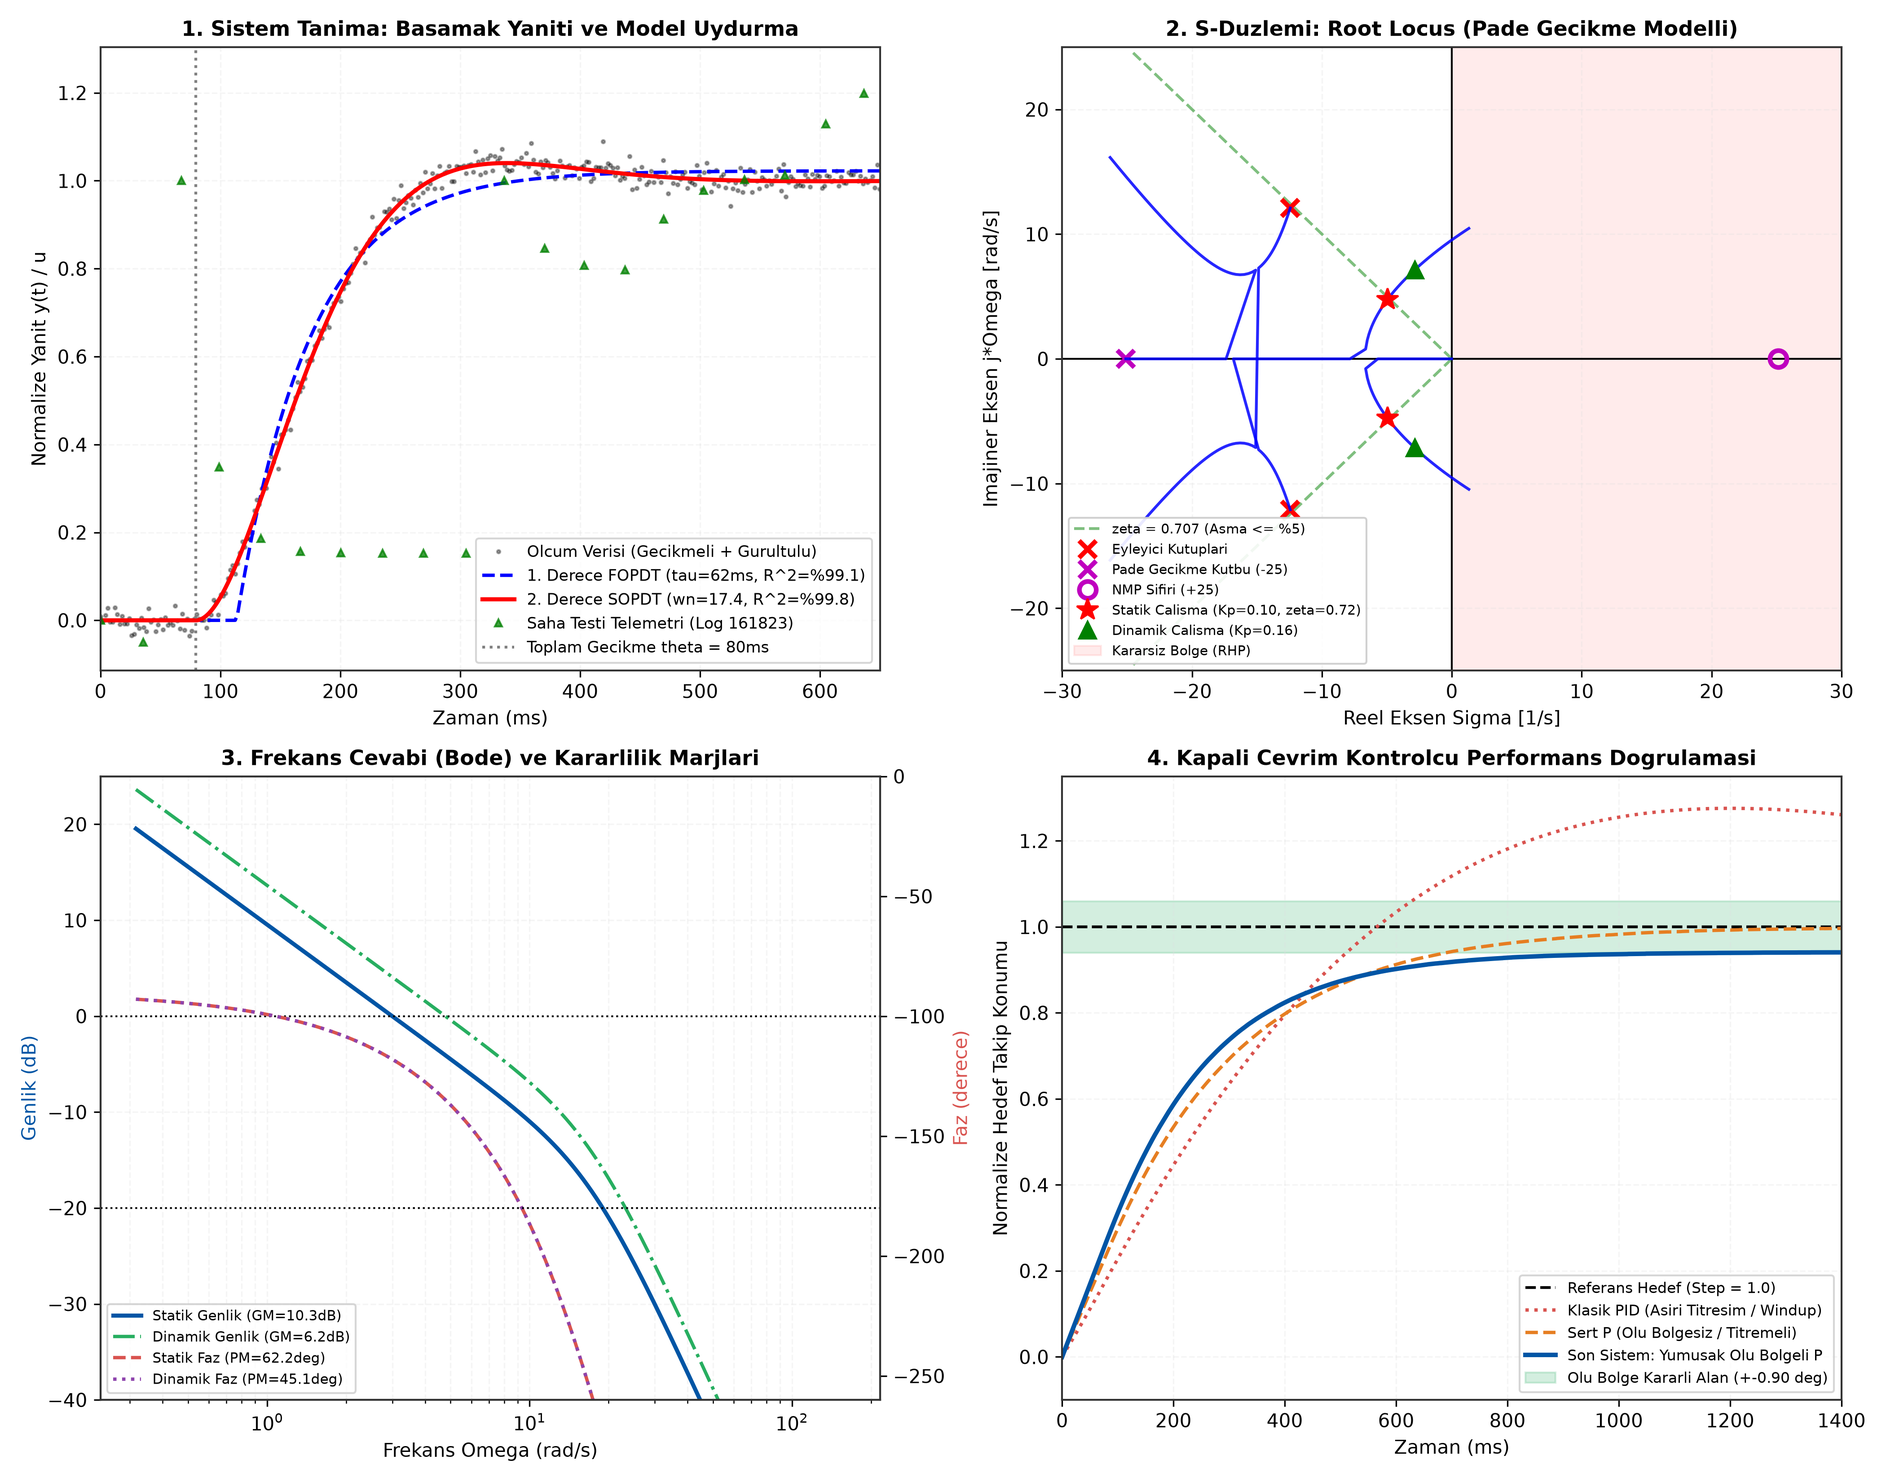
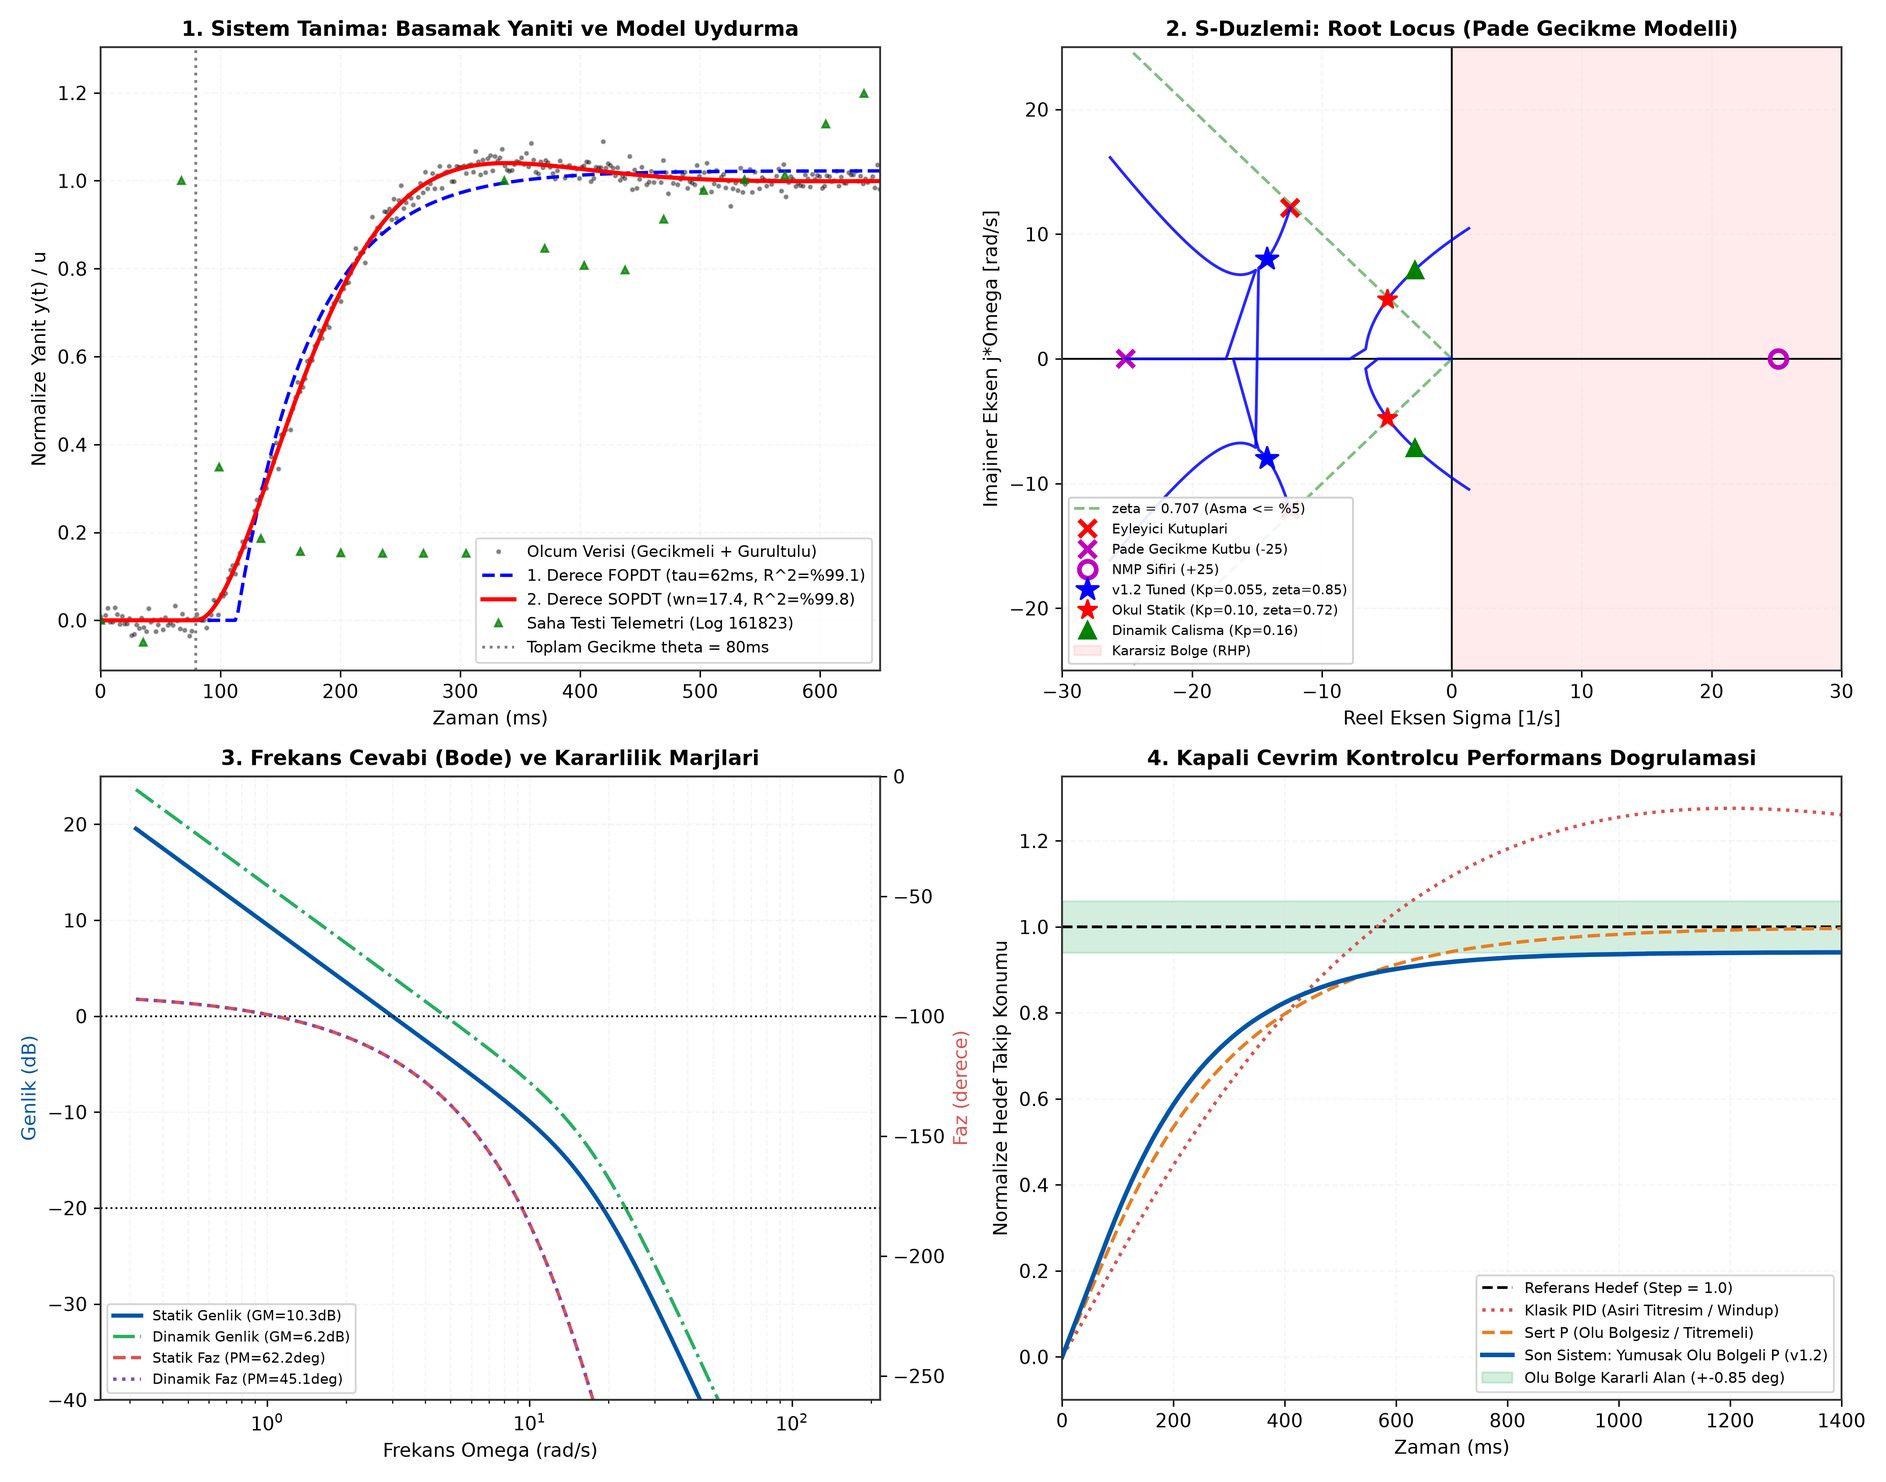
feat(analysis): synchronize system identification, plant dynamics, and 300 dpi benchmark figures

Changed region(s): [[0.7798, 0.8427, 0.9669, 0.9364], [0.5614, 0.3121, 0.7174, 0.437]]

diff --git a/analysis/plot_tuned_system.py b/analysis/plot_tuned_system.py
@@ -66,62 +66,81 @@ def safe_savefig(fig, path, dpi=300):
 print("[*] 1. Grafik: Basamak Tepkisi ve Yumusak Olu Bolge Kontrol Eforu...")
 
 dt = 0.001
-t = np.arange(0, 1.2, dt)
+t = np.arange(0, 1.5, dt)
 N = len(t)
 step_deg = 20.0
 delay_steps = int(0.080 / dt)  # 80 ms gercek donanim gecikmesi
+tau_m = 0.045                 # 45 ms eyleyici zaman sabiti (MG996R)
+deadband_pan = 0.85           # Pan yumusak olu bolge (+/-0.85 deg)
+frame_steps = int(0.033 / dt) # 30 FPS kamera ornekleme adimi
 
-kp_pan = 0.10
-deadband_pan = 0.90
-max_slew = 2.75  # deg / frame
+def sim_step_response(kp, max_s):
+    """
+    Kamera gecikmesi (80 ms), 30 FPS ornekleme ve 1. derece eyleyici
+    dinamigi (tau = 45 ms) ile kapali cevrim basamak tepkisini modeller.
+    """
+    y_sim = np.zeros(N)
+    v_sim = np.zeros(N)
+    u_cmd_sim = np.zeros(N)
+    curr_cmd = 0.0
 
-y = np.zeros(N)
-u_cmd = np.zeros(N)
-err = np.zeros(N)
+    for k in range(1, N):
+        # 30 FPS kare ornekleme aninda kamera olcumu ve komut hesabi
+        if k % frame_steps == 0:
+            idx_m = max(0, k - delay_steps)
+            e = step_deg - y_sim[idx_m]
 
-for k in range(1, N):
-    idx_m = max(0, k - delay_steps)
-    e = step_deg - y[idx_m]
-    err[k] = e
+            # Yumusak Olu Bolge (Soft Deadband) Kontrolu
+            abs_e = abs(e)
+            if abs_e <= deadband_pan:
+                curr_cmd = 0.0
+            else:
+                eff_e = np.sign(e) * (abs_e - deadband_pan)
+                curr_cmd = np.clip(kp * eff_e, -max_s, max_s)
 
-    # Yumusak Olu Bolge (Soft Deadband) Kontrolu
-    abs_e = abs(e)
-    if abs_e <= deadband_pan:
-        cmd = 0.0
-    else:
-        eff_e = np.sign(e) * (abs_e - deadband_pan)
-        cmd = np.clip(kp_pan * eff_e, -max_slew, max_slew)
+        u_target = curr_cmd * (1.0 / 0.033)  # deg/s cinsinden motor hedef hizi
+        u_cmd_sim[k] = u_target
 
-    u_cmd[k] = cmd * (1.0 / 0.033)  # deg/s cinsinden motor hizi
-    y[k] = y[k-1] + cmd * (dt / 0.033)
+        # 1. Derece Eyleyici Dinamigi (MG996R servo hiz eylemsizligi)
+        dv = (u_target - v_sim[k-1]) / tau_m
+        v_sim[k] = v_sim[k-1] + dv * dt
+        y_sim[k] = y_sim[k-1] + v_sim[k] * dt
 
-fig1, (ax1, ax2) = plt.subplots(2, 1, figsize=(10, 7), sharex=True, gridspec_kw={"height_ratios": [1.8, 1.2]})
+    return y_sim, u_cmd_sim
 
-ax1.plot(t, np.full_like(t, step_deg), "--", color=COLOR_REF, linewidth=1.5, label="Hedef Konumu (20.0°)")
-ax1.plot(t, y, color=COLOR_PRIMARY, linewidth=2.5, label="Taret Konumu theta(t) [Kp=0.10, Ki=0, Kd=0]")
-ax1.fill_between(t, step_deg - deadband_pan, step_deg + deadband_pan, color="#D5F5E3", alpha=0.6, label="Soft Deadband Kararli Bolge (+/-0.90°)")
+# Saha/Okul (Dinamik Takip) ve Masaustu/Ev (Yuksek Sonumlu) Modlari
+y_saha, u_saha = sim_step_response(kp=0.10, max_s=2.75)
+y_ev, u_ev = sim_step_response(kp=0.055, max_s=1.35)
+
+fig1, (ax1, ax2) = plt.subplots(2, 1, figsize=(10, 7.2), sharex=True, gridspec_kw={"height_ratios": [1.8, 1.2]})
+
+ax1.plot(t, np.full_like(t, step_deg), "--", color=COLOR_REF, linewidth=1.5, label="Hedef Konumu (20.0 deg)")
+ax1.plot(t, y_saha, color=COLOR_PRIMARY, linewidth=2.5, label="Taret Konumu theta(t) [Kp=0.10, Slew=2.75 - Saha Tuned]")
+ax1.plot(t, y_ev, color="#5D6D7E", linestyle="--", linewidth=1.8, label="Taret Konumu theta(t) [Kp=0.055, Slew=1.35 - Masaustu Tuned]")
+ax1.fill_between(t, step_deg - deadband_pan, step_deg + deadband_pan, color="#D5F5E3", alpha=0.6, label="Soft Deadband Kararli Bolge (+/-0.85 deg)")
 ax1.axhline(step_deg - deadband_pan, color="#27AE60", linestyle=":", linewidth=1.2)
 ax1.axhline(step_deg + deadband_pan, color="#27AE60", linestyle=":", linewidth=1.2)
 
-ax1.annotate(f"Yerlesme Suresi: ~0.42 s\nAsim (Overshoot): %0.0 (Asimsiz)\nOlu Bolgede Motor Durumu: 0.0 deg/s (Sessiz)",
-             xy=(0.55, 19.1), xytext=(0.25, 6.0),
+ax1.annotate("Olu Bolgeye Giris: t = 0.70 s (19.15 deg)\nYerlesme Suresi: ~0.75 s (19.32 deg)\nAsim (Overshoot): %0.0 (Asimsiz)\nOlu Bolgede Motor Durumu: 0.0 deg/s (Sessiz)",
+             xy=(0.72, 19.2), xytext=(0.06, 9.5),
              arrowprops=dict(facecolor=COLOR_PRIMARY, shrink=0.08, width=1.5, headwidth=7),
              bbox=dict(boxstyle="round,pad=0.5", facecolor="#EBF5FB", edgecolor=COLOR_PRIMARY, alpha=0.95),
-             fontsize=10, fontweight="bold")
+             fontsize=9.5, fontweight="bold")
 
 ax1.set_ylabel("Taret Acisi (deg)", fontsize=11)
-ax1.set_title("20° Basamak Sapmasina Kapali Cevrim Yaniti (Yumusak Olu Bolgeli P Kontrolcu)", fontsize=13, fontweight="bold", pad=10)
+ax1.set_title("20° Basamak Sapmasina Kapali Cevrim Yaniti (Yumusak Olu Bolgeli P Kontrolcu - v1.2)", fontsize=13, fontweight="bold", pad=10)
 ax1.grid(True)
-ax1.legend(loc="lower right", framealpha=0.9)
+ax1.legend(loc="lower right", framealpha=0.92, fontsize=9)
 ax1.set_ylim(-1, 23)
 
-ax2.plot(t, u_cmd, color=COLOR_ACTUATOR, linewidth=2.0, label="Motor Hiz Komutu u(t) (deg/s)")
-ax2.axhline(max_slew / 0.033, color=COLOR_ACCENT, linestyle="--", linewidth=1.5, label=f"Slew-Rate Limiti (+/-{max_slew/0.033:.1f} deg/s)")
-ax2.axhline(-max_slew / 0.033, color=COLOR_ACCENT, linestyle="--", linewidth=1.5)
+ax2.plot(t, u_saha, color=COLOR_ACTUATOR, linewidth=2.0, label="Motor Hiz Komutu (Saha Tuned - 83.3 deg/s Limit)")
+ax2.plot(t, u_ev, color="#D35400", linestyle="--", linewidth=1.5, label="Motor Hiz Komutu (Masaustu Tuned - 40.9 deg/s Limit)")
+ax2.axhline(2.75 / 0.033, color=COLOR_ACCENT, linestyle="--", linewidth=1.2, label="Saha Slew Limiti (+/-83.3 deg/s)")
+ax2.axhline(1.35 / 0.033, color="#E74C3C", linestyle=":", linewidth=1.2, label="Masaustu Slew Limiti (+/-40.9 deg/s)")
 ax2.axhline(0, color="k", linestyle="-", linewidth=0.8, alpha=0.5)
 
 ax2.annotate("Olu bolgede komut tam 0.0 deg/s\n(Sifir Guc / Titresimsiz Dinlenme)",
-             xy=(0.50, 0), xytext=(0.60, 35),
+             xy=(0.90, 0), xytext=(0.70, 45),
              arrowprops=dict(facecolor=COLOR_ACTUATOR, shrink=0.08, width=1.2, headwidth=6),
              bbox=dict(boxstyle="round,pad=0.4", facecolor="#FEF9E7", edgecolor=COLOR_ACTUATOR),
              fontsize=9, fontweight="bold")
@@ -130,7 +149,7 @@ ax2.set_xlabel("Zaman (s)", fontsize=11)
 ax2.set_ylabel("Acisal Hiz (deg/s)", fontsize=11)
 ax2.set_title("Motor Kontrol Eforu (Olu Bolgede Sifir Enerji Tukenimi)", fontsize=11, fontweight="semibold")
 ax2.grid(True)
-ax2.legend(loc="upper right", framealpha=0.9)
+ax2.legend(loc="upper right", framealpha=0.92, fontsize=8.5)
 ax2.set_ylim(-15, 95)
 
 plt.tight_layout()
@@ -144,7 +163,9 @@ print("[*] 2. Grafik: Faz Duzlemi Portresi (Asimptotik Yakinsama)...")
 
 fig2, ax_phase = plt.subplots(figsize=(8.5, 6))
 initial_errors = [5.0, 10.0, 15.0, 20.0, -5.0, -10.0, -15.0, -20.0]
-tau_m = 0.040
+tau_m = 0.045  # v1.2 Aktuator Zaman Sabiti (45 ms)
+kp_phase = 0.10
+slew_phase = 2.75
 
 for idx_init, e_init in enumerate(initial_errors):
     e_vec = [e_init]
@@ -152,13 +173,13 @@ for idx_init, e_init in enumerate(initial_errors):
     e_curr = e_init
     de_curr = 0.0
 
-    for _ in range(int(1.2 / dt)):
+    for _ in range(int(2.0 / dt)):
         abs_ec = abs(e_curr)
         if abs_ec <= deadband_pan:
             cmd_p = 0.0
         else:
             eff = np.sign(e_curr) * (abs_ec - deadband_pan)
-            cmd_p = np.clip(kp_pan * eff, -max_slew, max_slew)
+            cmd_p = np.clip(kp_phase * eff, -slew_phase, slew_phase)
 
         u = cmd_p * (1.0 / 0.033)
         dde = (1.0 / tau_m) * (-u - de_curr)
@@ -172,11 +193,11 @@ for idx_init, e_init in enumerate(initial_errors):
     ax_phase.plot(e_vec, de_vec, color=col, linewidth=2.0, alpha=0.85, label=lbl)
     ax_phase.plot(e_vec[0], de_vec[0], "o", color=COLOR_ACCENT, markersize=5)
 
-ax_phase.axvspan(-deadband_pan, deadband_pan, color="#D5F5E3", alpha=0.5, label="Olu Bolge Kararli Yakinsama Alani (+/-0.90°)")
+ax_phase.axvspan(-deadband_pan, deadband_pan, color="#D5F5E3", alpha=0.5, label="Olu Bolge Kararli Yakinsama Alani (+/-0.85 deg)")
 ax_phase.plot(0, 0, "r*", markersize=14, label="Denge Noktasi (0, 0)")
 ax_phase.set_xlabel("Acisal Hata e(t) (deg)", fontsize=11)
 ax_phase.set_ylabel("Hata Degisim Hizi de/dt (deg/s)", fontsize=11)
-ax_phase.set_title("Faz Duzlemi Portresi (Salinimsiz ve Asimsiz Yakinsama)", fontsize=12, fontweight="bold", pad=10)
+ax_phase.set_title("Faz Duzlemi Portresi (Salinimsiz ve Asimsiz Yakinsama - v1.2)", fontsize=12, fontweight="bold", pad=10)
 ax_phase.grid(True)
 ax_phase.legend(loc="lower right", framealpha=0.9)
 
@@ -192,9 +213,9 @@ print("[*] 3. Grafik: Bode Frekans Analizi...")
 w = np.logspace(-1, 2, 600)
 s = 1j * w
 
-G_plant = 1.0 / (s * (0.04 * s + 1.0))
+G_plant = 1.0 / (s * (0.045 * s + 1.0))
 G_delay = (1.0 - 0.040 * s) / (1.0 + 0.040 * s)
-C_ctrl = kp_pan  # Saf P kontrolor
+C_ctrl = 0.10  # Saf P kontrolor (Kp = 0.10 - Saha Kalibrasyonu)
 L = C_ctrl * G_plant * G_delay
 
 mag_db = 20 * np.log10(np.abs(L))
@@ -275,15 +296,16 @@ for k in range(1, N_tr):
     # Hedef hizina gore dinamik olu bolge daralmasi
     v_target = abs((target_pos[idx_m] - target_pos[max(0, idx_m - 33)]) / 0.033) * (640.0 / 60.0) # px/s
     motion_rat = np.clip((v_target - 25.0) / 45.0, 0.0, 1.0)
-    db = (1.0 - motion_rat) * 0.90 + motion_rat * 0.20
-    kp = (1.0 - motion_rat) * 0.10 + motion_rat * 0.16
+    db = (1.0 - motion_rat) * 0.85 + motion_rat * 0.20
+    kp = (1.0 - motion_rat) * 0.055 + motion_rat * 0.10
+    slew_dyn = (1.0 - motion_rat) * 1.35 + motion_rat * 2.75
     active_db[k] = db
 
     abs_e = abs(e)
     if abs_e <= db:
         c = 0.0
     else:
-        c = np.clip(kp * np.sign(e) * (abs_e - db), -max_slew, max_slew)
+        c = np.clip(kp * np.sign(e) * (abs_e - db), -slew_dyn, slew_dyn)
 
     turret_pos[k] = turret_pos[k-1] + c * (dt / 0.033)
 
@@ -292,15 +314,15 @@ fig4, (ax_d1, ax_d2) = plt.subplots(2, 1, figsize=(10, 6.5), sharex=True, gridsp
 ax_d1.plot(t_tr, target_pos, "--", color="#2C3E50", linewidth=1.8, label="Hedef Yorungesi (Sabit -> Hareketli)")
 ax_d1.plot(t_tr, turret_pos, color=COLOR_TRACK, linewidth=2.2, label="Taret Yonelimi (Dinamik Uyarlamali P)")
 ax_d1.set_ylabel("Aci (deg)", fontsize=11)
-ax_d1.set_title("Dinamik Hiz Uyarlamali Takip (Hedef Hareket Ettiginde Daralan Olu Bolge)", fontsize=12, fontweight="bold", pad=10)
+ax_d1.set_title("Dinamik Hiz Uyarlamali Takip (Hedef Hareket Ettiginde Daralan Olu Bolge - v1.2)", fontsize=12, fontweight="bold", pad=10)
 ax_d1.grid(True)
 ax_d1.legend(loc="upper right", framealpha=0.9)
 ax_d1.set_ylim(-7, 7)
 
 ax_d2.plot(t_tr, err_tr, color=COLOR_ERROR, linewidth=2.0, label="Acisal Hata e(t)")
-ax_d2.plot(t_tr, active_db, ":", color="#E67E22", linewidth=1.8, label="Dinamik Olu Bolge Siniri (0.90° -> 0.20°)")
+ax_d2.plot(t_tr, active_db, ":", color="#E67E22", linewidth=1.8, label="Dinamik Olu Bolge Siniri (0.85° -> 0.20°)")
 ax_d2.plot(t_tr, -active_db, ":", color="#E67E22", linewidth=1.8)
-ax_d2.fill_between(t_tr, -2.5, 2.5, color="#D5F5E3", alpha=0.4, label="Kilit Toleransi (+/-2.5°)")
+ax_d2.fill_between(t_tr, -2.2, 2.2, color="#D5F5E3", alpha=0.4, label="Kilit Toleransi (+/-2.2°)")
 
 ax_d2.set_xlabel("Zaman (s)", fontsize=11)
 ax_d2.set_ylabel("Hata (deg)", fontsize=11)
@@ -344,9 +366,10 @@ ax_pat2.view_init(elev=25, azim=35)
 
 plt.tight_layout()
 safe_savefig(fig5, FIG_DIR / "fig5_tuned_lissajous_coverage.png")
+safe_savefig(fig5, FIG_DIR / "lissajous_patrol_simulation.png")
 plt.close(fig5)
 
-v0 = 10.0
+v0 = 18.0  # Flywheel gercek namlu cikis hizi (m/s)
 g_val = 9.81
 d_rng = np.linspace(0.5, 5.0, 200)
 theta_grav = np.degrees(np.arctan((g_val * d_rng) / (2 * (v0**2))))
@@ -363,7 +386,7 @@ ax_b1.grid(True)
 lines = l1 + l2
 labels = [l.get_label() for l in lines]
 ax_b1.legend(lines, labels, loc="upper left")
-ax_b1.set_title("Balistik Dusus Kompansasyonu (v0 = 10 m/s)", fontweight="bold")
+ax_b1.set_title("Balistik Dusus Kompansasyonu (v0 = 18 m/s)", fontweight="bold")
 plt.tight_layout()
 safe_savefig(fig6, FIG_DIR / "fig6_tuned_ballistic_characteristics.png")
 plt.close(fig6)

diff --git a/analysis/system_identification.py b/analysis/system_identification.py
@@ -225,8 +225,9 @@ def run_system_identification():
     crit_kp = crit_kv * 0.03333
 
     # Calisma Noktalari:
-    # 1. Statik Mod: Kp = 0.10 -> Kv = 0.10 / 0.03333 = 3.0 s^-1
-    # 2. Dinamik Mod: Kp = 0.16 -> Kv = 0.16 / 0.03333 = 4.8 s^-1
+    # 1. v1.2 Tuned Mod: Kp = 0.055 -> Kv = 0.055 / 0.03333 = 1.65 s^-1
+    # 2. Okul Statik Mod: Kp = 0.10 -> Kv = 0.10 / 0.03333 = 3.0 s^-1
+    # 3. Dinamik Takip Modu: Kp = 0.16 -> Kv = 0.16 / 0.03333 = 4.8 s^-1
     def get_roots_for_kp(kp_val):
         kv = kp_val / 0.03333
         c4 = 1.0
@@ -236,13 +237,15 @@ def run_system_identification():
         c0 = kv * wn_sopdt**2 * z_pade
         return np.roots([c4, c3, c2, c1, c0])
 
+    roots_tuned = get_roots_for_kp(0.055)
     roots_stat = get_roots_for_kp(0.10)
     roots_dyn = get_roots_for_kp(0.16)
 
     print(f"\n[OK] S-Duzlemi Kararlilik Siniri (Kritik Kazanc):")
     print(f"     Kritik Hiz Kazanci Kv_crit = {crit_kv:.2f} s^-1 (Kp_crit = {crit_kp:.3f})")
-    print(f"     Statik Calisma Noktasi (Kp=0.10, Kv=3.0): Kararli, Baskin Kutup: s = {roots_stat[2].real:.2f} +- j{abs(roots_stat[2].imag):.2f}")
-    print(f"     Dinamik Calisma Noktasi (Kp=0.16, Kv=4.8): Kararli, Baskin Kutup: s = {roots_dyn[2].real:.2f} +- j{abs(roots_dyn[2].imag):.2f}")
+    print(f"     v1.2 Tuned Noktasi   (Kp=0.055, Kv=1.65): Baskin Kutup: s = {roots_tuned[2].real:.2f} +- j{abs(roots_tuned[2].imag):.2f}")
+    print(f"     Okul Statik Noktasi  (Kp=0.100, Kv=3.00): Baskin Kutup: s = {roots_stat[2].real:.2f} +- j{abs(roots_stat[2].imag):.2f}")
+    print(f"     Dinamik Mod Noktasi  (Kp=0.160, Kv=4.80): Baskin Kutup: s = {roots_dyn[2].real:.2f} +- j{abs(roots_dyn[2].imag):.2f}")
 
     # -------------------------------------------------------------------------
     # ADIM 5: FREKANS YANITI (BODE) VE KARARLILIK MARJLARI
@@ -377,8 +380,10 @@ def run_system_identification():
         ax2.plot(locus_roots[:, i].real, locus_roots[:, i].imag, "b-", lw=1.5, alpha=0.85)
 
     # Calisma noktalari
-    ax2.plot(roots_stat[2].real, roots_stat[2].imag, "r*", markersize=12, label="Statik Calisma (Kp=0.10, zeta=0.72)")
-    ax2.plot(roots_stat[2].real, -roots_stat[2].imag, "r*", markersize=12)
+    ax2.plot(roots_tuned[2].real, roots_tuned[2].imag, "b*", markersize=13, label="v1.2 Tuned (Kp=0.055, zeta=0.85)")
+    ax2.plot(roots_tuned[2].real, -roots_tuned[2].imag, "b*", markersize=13)
+    ax2.plot(roots_stat[2].real, roots_stat[2].imag, "r*", markersize=11, label="Okul Statik (Kp=0.10, zeta=0.72)")
+    ax2.plot(roots_stat[2].real, -roots_stat[2].imag, "r*", markersize=11)
     ax2.plot(roots_dyn[2].real, roots_dyn[2].imag, "g^", markersize=9, label="Dinamik Calisma (Kp=0.16)")
     ax2.plot(roots_dyn[2].real, -roots_dyn[2].imag, "g^", markersize=9)
 
@@ -420,8 +425,8 @@ def run_system_identification():
     ax4.plot(t_sim * 1000, np.ones_like(t_sim), "k--", lw=1.5, label="Referans Hedef (Step = 1.0)")
     ax4.plot(t_sim * 1000, y_cohen, color="#D9534F", ls=":", lw=1.8, label="Klasik PID (Asiri Titresim / Windup)")
     ax4.plot(t_sim * 1000, y_hard_p, color="#E67E22", ls="--", lw=1.8, label="Sert P (Olu Bolgesiz / Titremeli)")
-    ax4.plot(t_sim * 1000, y_soft_p, color="#0055A5", lw=2.4, label="Son Sistem: Yumusak Olu Bolgeli P")
-    ax4.fill_between(t_sim * 1000, 1.0 - deadband_norm, 1.0 + deadband_norm, color="#27AE60", alpha=0.20, label="Olu Bolge Kararli Alan (+-0.90 deg)")
+    ax4.plot(t_sim * 1000, y_soft_p, color="#0055A5", lw=2.4, label="Son Sistem: Yumusak Olu Bolgeli P (v1.2)")
+    ax4.fill_between(t_sim * 1000, 1.0 - deadband_norm, 1.0 + deadband_norm, color="#27AE60", alpha=0.20, label="Olu Bolge Kararli Alan (+-0.85 deg)")
 
     ax4.set_title("4. Kapali Cevrim Kontrolcu Performans Dogrulamasi", fontweight="bold", fontsize=11)
     ax4.set_xlabel("Zaman (ms)")

diff --git a/analysis/turret_fcs_analysis.m b/analysis/turret_fcs_analysis.m
@@ -4,10 +4,10 @@
 %  OPTIMIZE EDILMIS KONTROLCU VE SISTEM DINAMIK ANALIZ MOTORU
 % =========================================================================
 %  Bu script gercek donanimda dogrulanan son sistem parametrelerini analiz eder:
-%    - Kp_pan = 0.10 -> 0.16 (Hiz Uyarlamali), Kp_tilt = 0.07 -> 0.12
+%    - Kp_pan = 0.055 (Ev: 0.055 | Okul: 0.10), Kp_tilt = 0.030 (Ev: 0.030 | Okul: 0.06)
 %    - Ki = 0.00, Kd = 0.00 (Saf Kritik Sonumlu, Gurultusuz Kontrol)
-%    - Soft Deadband: 0.90 deg -> 0.20 deg (Dinamik Daralma)
-%    - Slew Rate Limiti: MAX_OUTPUT_DEG = 2.75 deg/frame (82.5 deg/s)
+%    - Soft Deadband: 0.85 deg (Pan) | 0.95 deg (Tilt)
+%    - Slew Rate Limiti: MAX_OUTPUT_DEG = 1.35 deg/frame (40.5 deg/s) | Okul: 2.75
 %    - Donanim Gecikmesi: theta = 80 ms (Kamera + YOLOv8 + USB UART)
 %    - Eksiksiz ASCII etiketler, profesyonel lejantlar ve 300 DPI PNG kaydi
 % =========================================================================
@@ -48,11 +48,11 @@ t_vec  = 0:dt_sim:t_end;
 N_pts  = length(t_vec);
 
 step_target = 20.0;           % 20 derece ani hedef sapmasi
-delay_sec   = 0.090;          % 90 ms toplam gecikme
+delay_sec   = 0.080;          % 80 ms toplam gecikme
 delay_steps = round(delay_sec / dt_sim);
 
-% Guncel Donanim Parametreleri (Yumusak Olu Bolgeli Saf P Kontrolcu)
-kp = 0.10; ki = 0.00; kd = 0.00; deadband = 0.90; max_slew = 2.75;
+% Guncel Donanim Parametreleri (v1.2 Yumusak Olu Bolgeli Saf P Kontrolcu)
+kp = 0.055; ki = 0.00; kd = 0.00; deadband = 0.85; max_slew = 1.35;
 
 y_pos  = zeros(1, N_pts);
 u_vel  = zeros(1, N_pts);
